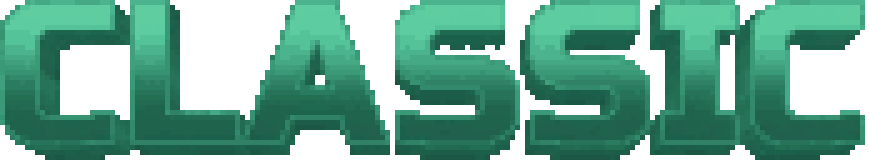
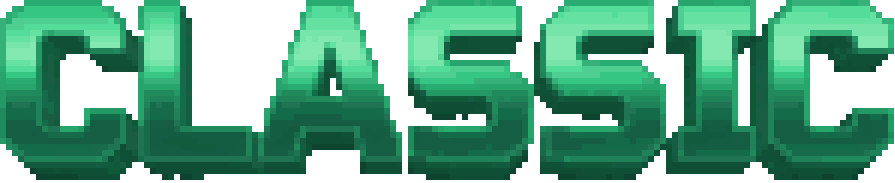
CLASSIC-word.png (login) tambien vuelve al v3
Ultimo de los cuatro titulos del modo classic en pasar a v3: PILLWARS y
CLASSIC del login, y los dos del selector. El unico que se queda en v4 en
todo el juego es ARCADE (login y selector).

895x183 (antes 869x163 en v4), factor de rejilla recalculado
(65.77/183 = 0.3594) y layout remedido: hueco 24.1px, desviacion del
centro 0 en classic y 0.2px en arcade. Servidor local sincronizado.

diff --git a/game/index.html b/game/index.html
@@ -5265,8 +5265,8 @@
         // las de antes ARCADE quedaba pegado a PILLWARS (0.6px de hueco) y
         // CLASSIC separado 72px. Objetivo: ~24px de hueco, el gap de
         // .menu-head-row, y el conjunto centrado en el viewport.
-        titlePw_classic:   { x: 208,  y: 16,   s: 2.7522689647375245 },
-        titleWord_classic: { x: 420,  y: 19,   s: 2.2679439840192406 },
+        titlePw_classic:   { x: 222,  y: 16,   s: 2.7522689647375245 },
+        titleWord_classic: { x: 426,  y: 19,   s: 2.2679439840192406 },
         titlePw_arcade:    { x: 204,  y: 18,   s: 2.7522689647375245 },
         titleWord_arcade:  { x: 433,  y: 17,   s: 2.3364925909362215 },
         blurb:             { x: -115, y: 85,   s: 1.4509453541079567 },

diff --git a/scripts/import-hero-art.py b/scripts/import-hero-art.py
@@ -66,11 +66,11 @@ TRABAJOS = [
     # normal basta.
     ('game/img/mode-title/raw/PILLWARS-arcade-v4.jpg',  'game/img/mode-title/PILLWARS-arcade.png',  'croma', None, True),
     ('game/img/mode-title/raw/ARCADE-word-v4.jpg',      'game/img/mode-title/ARCADE-word.png',      'croma', None, True),
-    # PILLWARS-classic.png (el del LOGIN) tambien vuelve a v3, a peticion de
-    # David — igual que CLASSIC.png del selector. CLASSIC-word.png (la palabra
-    # de al lado en el mismo login) se queda en v4.
+    # Los dos titulos del LOGIN en modo classic (PILLWARS + CLASSIC) vuelven a
+    # v3, a peticion de David — igual que CLASSIC.png del selector. El unico
+    # que queda en v4 en todo el juego es ARCADE-word.png / ARCADE.png.
     ('game/img/mode-title/raw/PILLWARS-classic-v3.jpg', 'game/img/mode-title/PILLWARS-classic.png', 'croma', None, True),
-    ('game/img/mode-title/raw/CLASSIC-word-v4.jpg',     'game/img/mode-title/CLASSIC-word.png',     'croma', None, True),
+    ('game/img/mode-title/raw/CLASSIC-word-v3.jpg',     'game/img/mode-title/CLASSIC-word.png',     'croma', None, True),
     # Titulos del SELECTOR de modo (la pantalla de antes del login). Van en
     # ficheros aparte de los -word porque el CSS los pinta a otro tamano —
     # ancho fijo de 312/332px en vez de alto fijo— y la rejilla de pixel se

diff --git a/scripts/pixelize-assets.py b/scripts/pixelize-assets.py
@@ -56,7 +56,9 @@ ASSETS = [
     # PILLWARS-classic.png volvio a v3 (995x182, contra 880x138 del v4):
     # 66.05 / 182 = 0.3629.
     ('game/img/mode-title/PILLWARS-classic.png',  0.3629, 0.3629),
-    ('game/img/mode-title/CLASSIC-word.png',      0.4035, 0.4035),
+    # CLASSIC-word.png volvio a v3 (895x183, contra 869x163 del v4):
+    # 29 * 2.26794 = 65.77 / 183 = 0.3594.
+    ('game/img/mode-title/CLASSIC-word.png',      0.3594, 0.3594),
     # Selector de modo: aqui el CSS fija el ANCHO (312px arcade, 332px classic),
     # asi que el factor sale de ahi y no del alto.
     ('game/img/mode-title/ARCADE.png',            0.3900, 0.3900),
